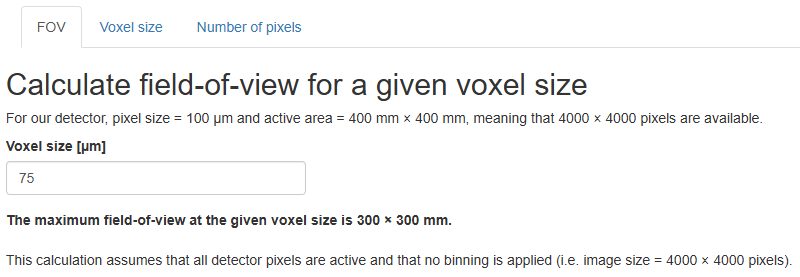
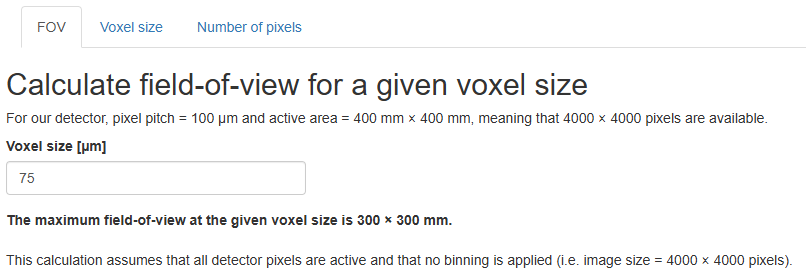
Formatting and simplification of calculations. Details of calculations in README

diff --git a/README.md b/README.md
@@ -15,6 +15,7 @@
         - [Download the repository](#download-the-repository)
         - [Start the App](#start-the-app)
     - [Saving](#saving)
+- [Calculation](#calculation)
 - [Operating instructions](#operating-instructions)
     - [Side bar](#side-bar)
     - [Tab "FOV"](#tab-fov)
@@ -101,6 +102,21 @@ There are two ways to get the App:
 ---
 
 
+# Calculation
+The following relationships are used in the app:
+
+$FOV(mm) = \frac{DetectorArea(mm) \times VoxelSize(µm)}{PixelPitch(µm)} = \frac{DetectorArea(mm)}{Magnification}$
+
+$VoxelSize(µm) = \frac{FOV(mm) \times PixelPitch(µm)}{DetectorArea(mm)} = \frac{PixelPitch(µm)}{Magnification}$
+
+$\#pixels = \frac{FOV(mm)}{VoxelSize(µm)} \times 1000 = \frac{DetectorArea(mm)}{PixelPitch(µm)} \times 1000$
+
+with $Magnification = \frac{ImageSize(mm)}{ObjectSize(mm)} = \frac{FDD(mm)}{FOD(mm)}$
+
+
+---
+
+
 # Operating instructions
 
 ## Side bar
@@ -137,10 +153,16 @@ In this tab, the required number of detector pixels is calculated for a given co
 **Enter the desired voxel size (= resolution) in [µm] and the desired FOV (= largest object dimension along X and/or Y) in [mm]** in the corresponding fields. The number of detector pixels (= image size) is updated automatically.
 
 ><p align="center" width="100%">
->    <img src="screenshots/app_NumberPixels.png"><br>
->    <i>Tab "Number of pixels".</i>
+>    <img src="screenshots/app_NumberPixels_ok.png"><br>
+>    <i>Tab "Number of pixels" with number calculated.</i>
 ></p>
 
+Some combinations of voxel size and FOV would need more than 4000 pixels, i.e. more than possible with our detector. In these cases, an error message is displayed.
+
+><p align="center" width="100%">
+>    <img src="screenshots/app_NumberPixels_notok.png"><br>
+>    <i>Tab "Number of pixels" with number not calculated.</i>
+></p>
 
 ---
 
